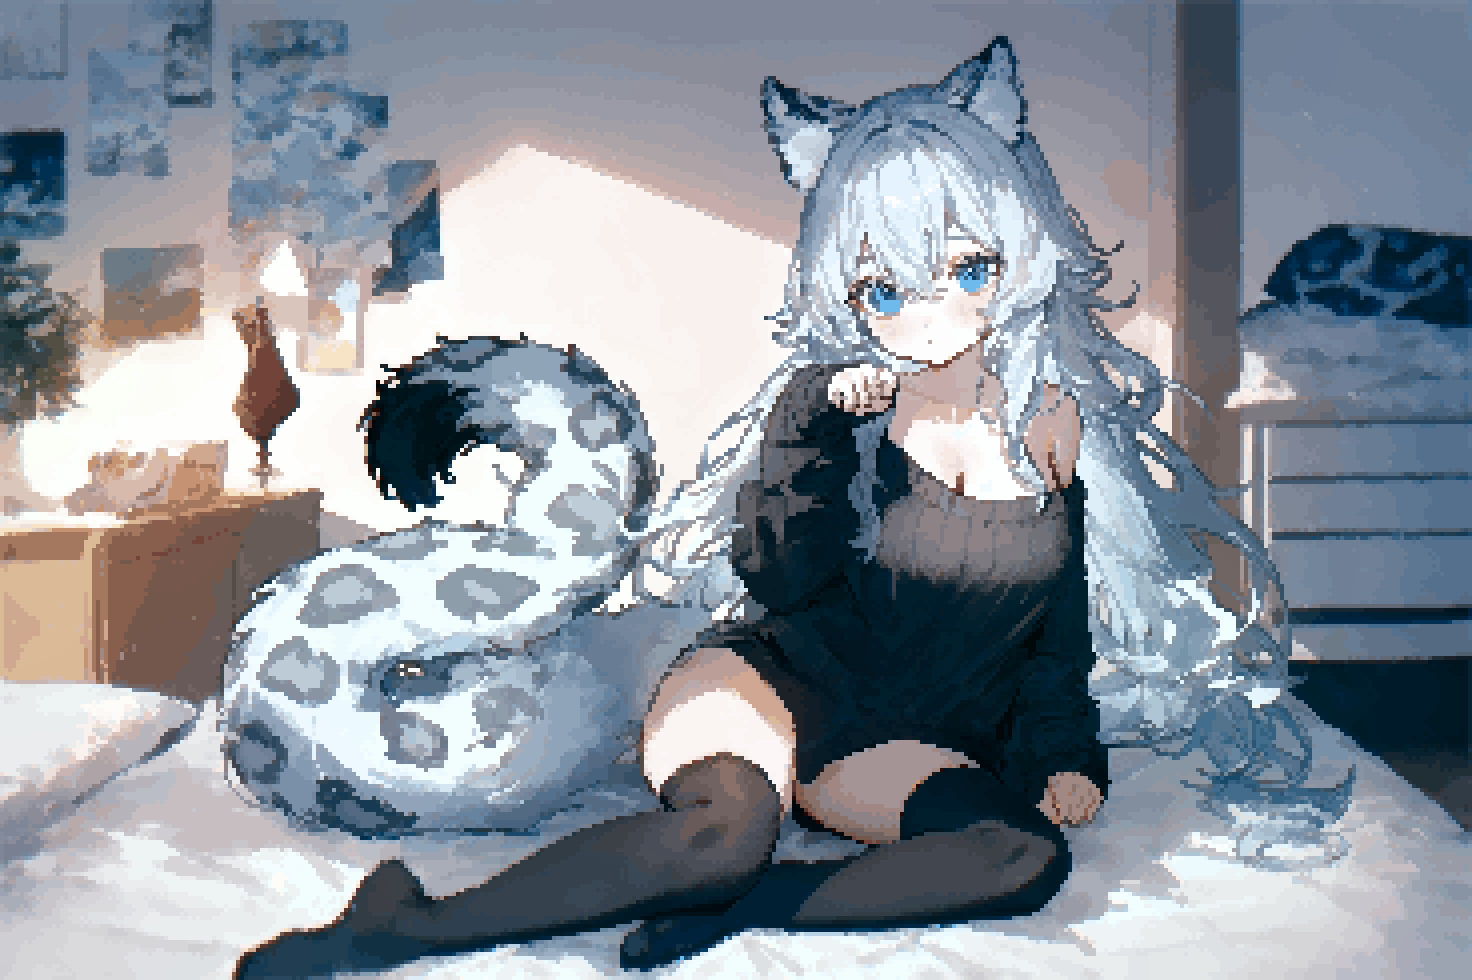
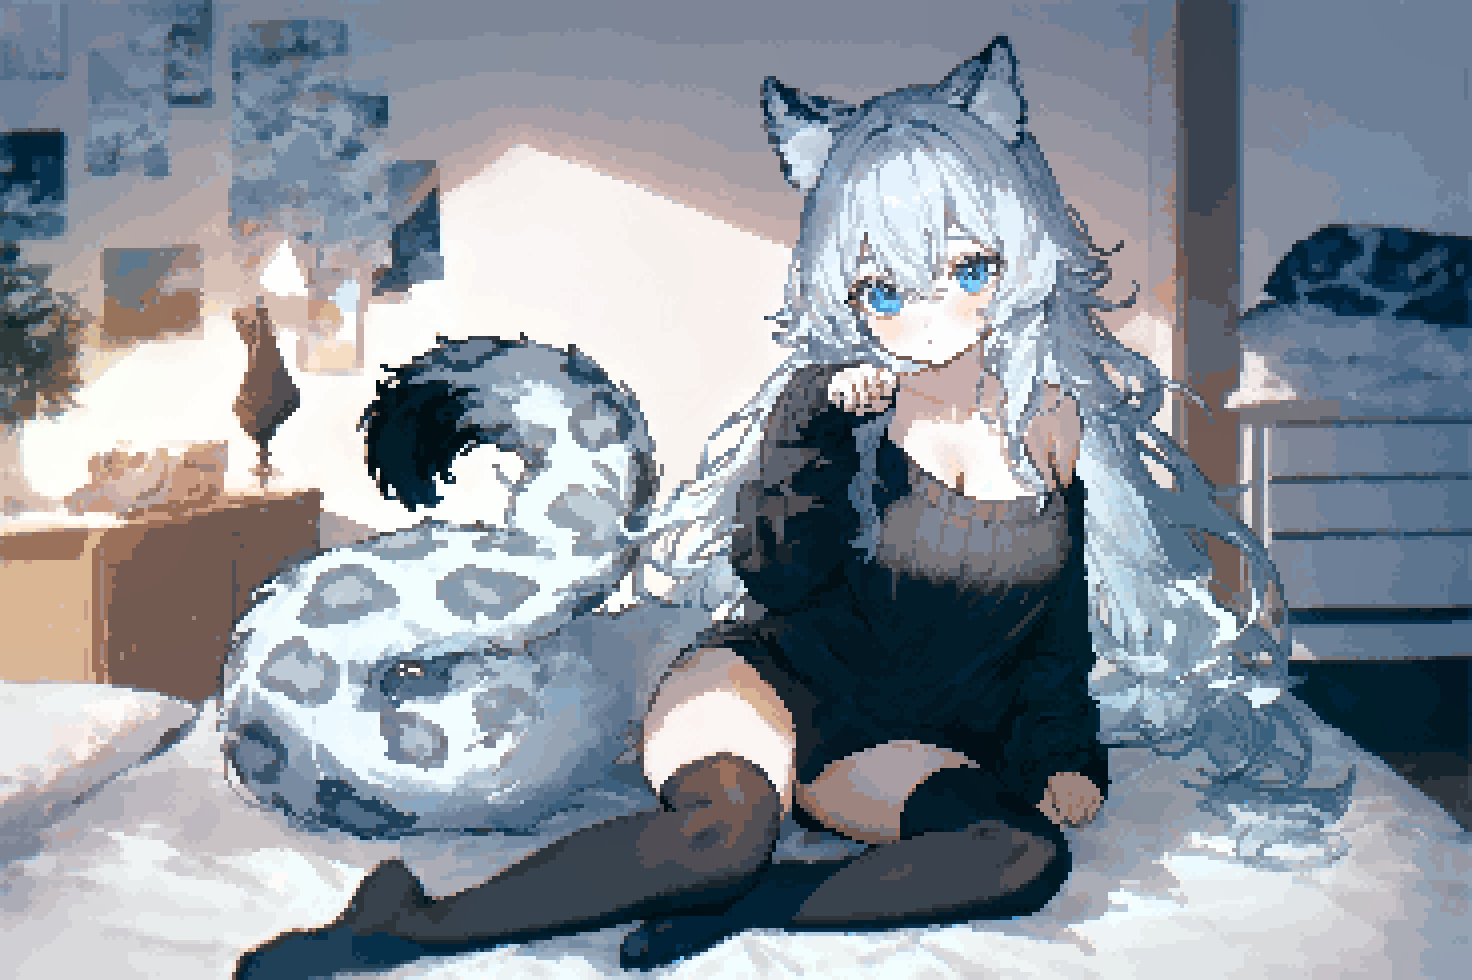
better kmeans with better initial centroids

diff --git a/src/pixeloe/torch/color.py b/src/pixeloe/torch/color.py
@@ -86,6 +86,26 @@ def wavelet_colorfix(
     return high_freq + target_x
 
 
+@compile_wrapper
+def centroid_generator(maxv, minv, num_centroids, device):
+    device = maxv.device
+    b, _, c = maxv.shape
+    if num_centroids < 8:
+        interp = torch.linspace(0, 1, num_centroids, device=device)[:, None]
+        centroids = interp * minv + (1 - interp) * maxv
+    else:
+        base_num = num_centroids // 4
+        cent_num = num_centroids - base_num * 3
+        interp_base = torch.linspace(0, 1, base_num + 1, device=device)[1:, None, None]
+        interp_base = interp_base * torch.eye(c, device=device)
+        interp_base = interp_base.reshape(1, -1, c)
+        interp_cent = torch.linspace(0, 1, cent_num, device=device)[:, None]
+        centroids_base = interp_base * minv + (1 - interp_base) * maxv
+        centroids_cent = interp_cent * minv + (1 - interp_cent) * maxv
+        centroids = torch.cat([centroids_base, centroids_cent], dim=1)
+    return centroids
+
+
 def color_quantization_kmeans(img, num_centroids=32, weights=None, repeat_mode=False):
     """
     Naive k-means color quantization on an image tensor.
@@ -97,10 +117,9 @@ def color_quantization_kmeans(img, num_centroids=32, weights=None, repeat_mode=F
         weights = weights.reshape(b, -1)
 
     # Initialize centroids using min-max interpolation
-    maxv = pixels.max(dim=1, keepdim=True)
-    minv = pixels.min(dim=1, keepdim=True)
-    interp = torch.linspace(0, 1, num_centroids, device=img.device)[None, :, None]
-    centroids = interp * minv.values + (1 - interp) * maxv.values
+    maxv = pixels.max(dim=1, keepdim=True).values
+    minv = pixels.min(dim=1, keepdim=True).values
+    centroids = centroid_generator(maxv, minv, num_centroids, img.device)
 
     if repeat_mode and weights is not None:
         repeat_table = generate_repeat_table(
